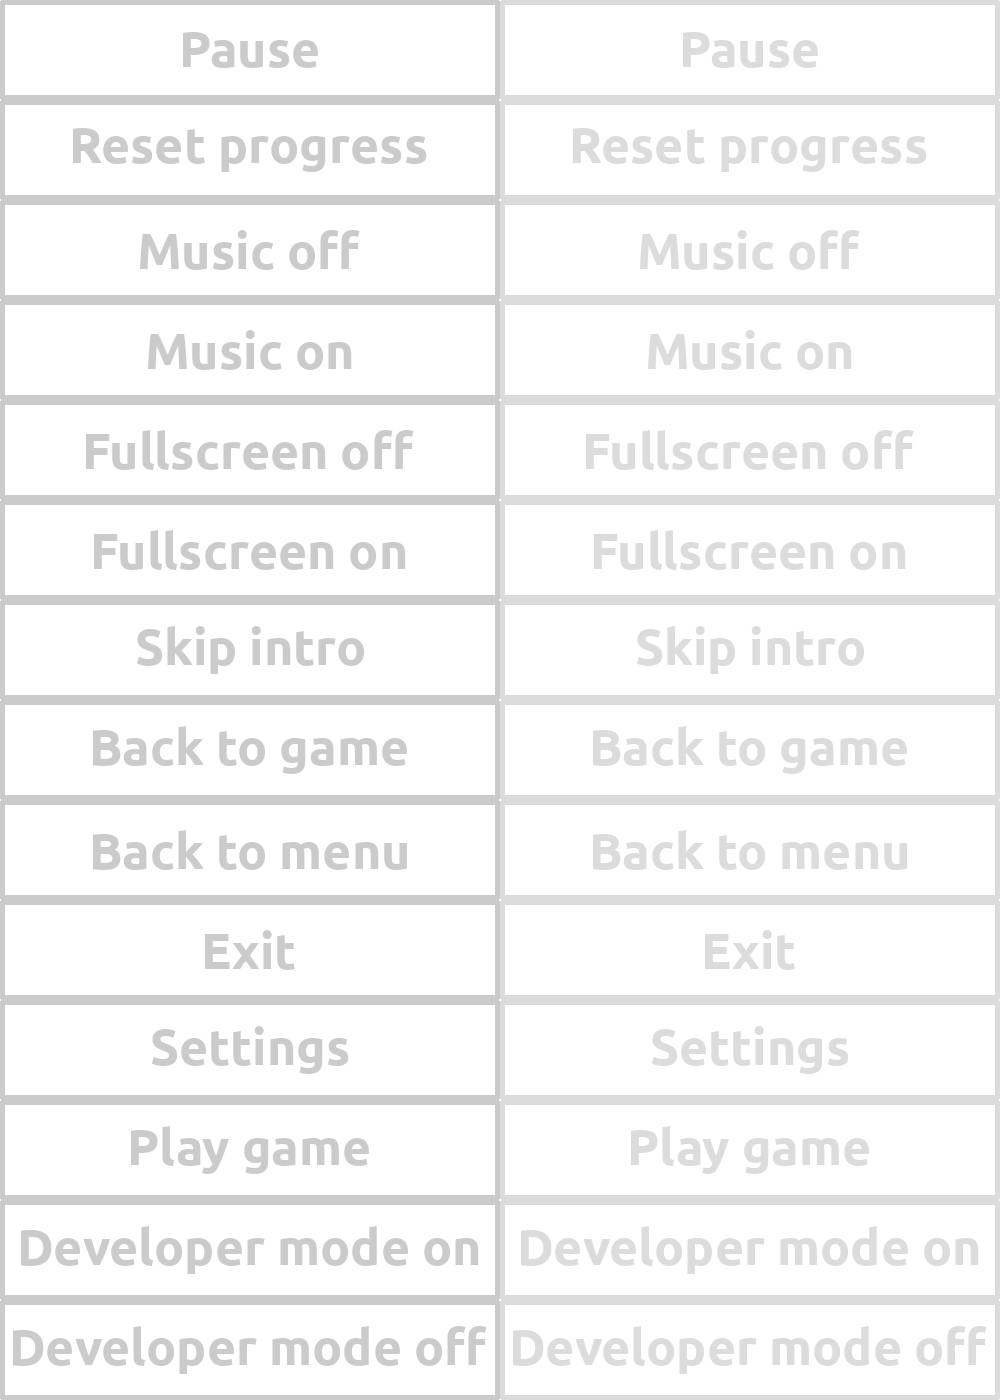
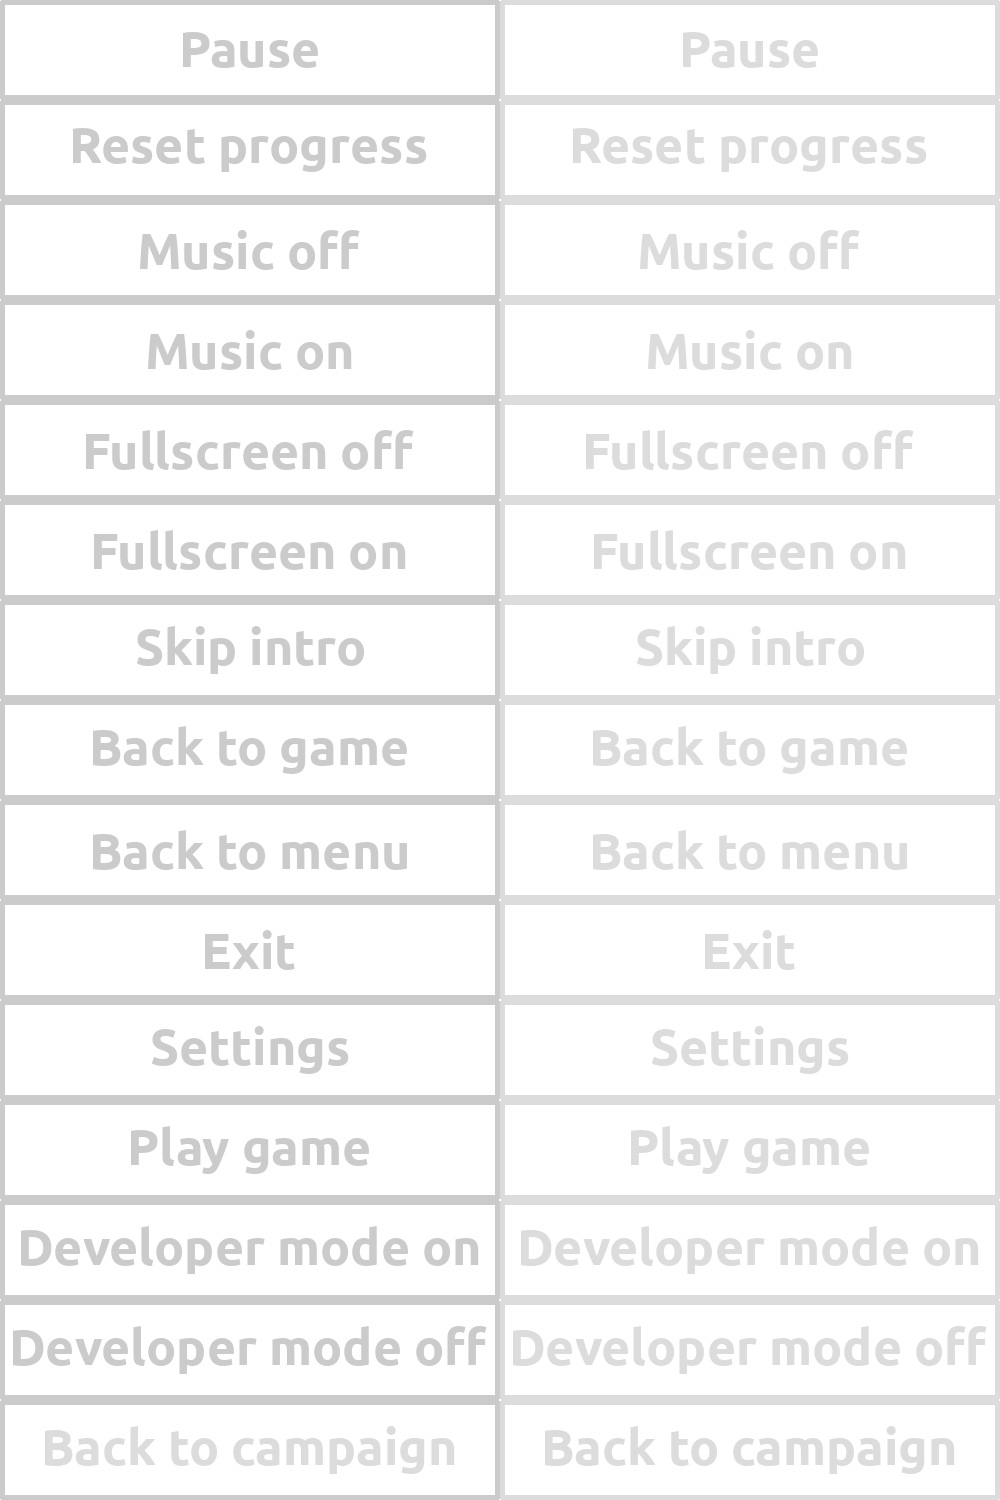
Moved all views to window class. Added campaign view.

Changed region(s): [[0.0, 0.0307, 1.0, 0.9829]]

diff --git a/src/campaign.py b/src/campaign.py
@@ -1,29 +1,55 @@
 """
-campaign.py
+intro.py
 
-Place for CampaignView class.
+Place for IntroView class.
 """
 
 import arcade
-from game import GameView
-from pause import PauseView
+import assets
+import data
+import pause
+from button import Button
+from developer import log
+
+# --- Constants ---
+param = data.load_parameters()
+
+# Size of the first level (intro plays only before first level)
+LEVEL_WIDTH = int(param['LEVEL']['DEFAULT_WIDTH'])
+LEVEL_HEIGHT = int(param['LEVEL']['DEFAULT_HEIGHT'])
 
 
 class CampaignView(arcade.View):
-    def on_show(self):
-        arcade.set_background_color(arcade.color.WHITE)
+    def __init__(self):
+        super().__init__()
+        if self.window.pause_view is None:
+            self.window.pause_view = pause.PauseView(self)
+
+        self.button_skip = Button(x=self.window.width / 6 * 5,
+                                  y=self.window.height * 1 / 8,
+                                  width=250, height=50,
+                                  texture_idle='skip_intro',
+                                  texture_hover='skip_intro_hover'
+                                  )
+
+    def on_update(self, delta_time: float):
+        self.button_skip.detect_mouse(self.window.cursor)
 
     def on_draw(self):
         self.window.developer_tool.on_draw_start()
         arcade.start_render()
-        arcade.draw_text("Campaign Screen", self.window.width/2, self.window.height/2,
-                         arcade.color.BLACK, font_size=50, anchor_x="center")
-        arcade.draw_text("Choose one from unlocked levels.", self.window.width / 2, self.window.height / 2 - 75,
-                         arcade.color.GRAY, font_size=20, anchor_x="center")
+        # In order to count FPS in proper way, add objects below:
+
+        # Draw the background texture
+        arcade.draw_lrwh_rectangle_textured(0, 0,
+                                            self.window.width, self.window.height,
+                                            assets.bg_menu)
+
+        arcade.draw_text("Intro Screen", self.window.width / 2, self.window.height / 2,
+                         arcade.color.WHITE, font_size=50, anchor_x="center")
+
+        self.button_skip.draw()
         self.window.developer_tool.on_draw_finish()
 
-    def on_key_press(self, key, modifiers):
-        """Called whenever a key is pressed. """
-        if key == arcade.key.ESCAPE:
-            pause_view = PauseView(self)
-            self.window.show_view(pause_view)
+    def on_mouse_press(self, _x, _y, _button, _modifiers):
+        pass

diff --git a/src/pause.py b/src/pause.py
@@ -9,7 +9,10 @@ Current state of the game is passed as argument to instance of PauseView object.
 import arcade
 import assets
 
+
 from button import Button
+from campaign import CampaignView
+from developer import log
 
 
 class PauseView(arcade.View):
@@ -20,12 +23,16 @@ class PauseView(arcade.View):
         self.button_back_game = Button(x=self.window.width / 6 * 4, y=self.window.height * 5 / 6,
                                        width=500, height=100,
                                        texture_idle='back_game', texture_hover='back_game_hover')
+        self.button_back_camp = Button(x=self.window.width / 2, y=self.window.height / 2,
+                                       width=500, height=100,
+                                       texture_idle='back_camp', texture_hover='back_camp_hover')
         self.button_back_menu = Button(x=self.window.width / 6 * 2, y=self.window.height * 1 / 6,
                                        width=500, height=100,
                                        texture_idle='back_menu', texture_hover='back_menu_hover')
 
     def on_update(self, delta_time: float):
         self.button_back_game.detect_mouse(self.window.cursor)
+        self.button_back_camp.detect_mouse(self.window.cursor)
         self.button_back_menu.detect_mouse(self.window.cursor)
 
     def on_draw(self):
@@ -37,6 +44,7 @@ class PauseView(arcade.View):
                                             self.window.width, self.window.height,
                                             assets.bg_menu)
         self.button_back_game.draw()
+        self.button_back_camp.draw()
         self.button_back_menu.draw()
 
         self.window.developer_tool.on_draw_finish()
@@ -44,5 +52,12 @@ class PauseView(arcade.View):
     def on_mouse_press(self, _x, _y, _button, _modifiers):
         if self.button_back_game.current_state == 'hover':
             self.window.show_view(self.game_view)
+            log('Scene switched to ' + str(self.game_view))
+        if self.button_back_camp.current_state == 'hover':
+            self.window.campaign_view = CampaignView()
+            self.window.scenes.append(self.window.campaign_view)
+            log('Scene switched to ' + str(self.window.campaign_view))
+            self.window.show_view(self.window.campaign_view)
         if self.button_back_menu.current_state == 'hover':
             self.window.show_view(self.window.start_view)
+            log('Scene switched to ' + str(self.window.start_view))

diff --git a/src/run_game.py b/src/run_game.py
@@ -40,6 +40,8 @@ class GlobalWindow(arcade.Window):
         self.cursor = Cursor()
         # Start view
         self.start_view = MenuView()
+        self.active_view = 0
+        self.scenes = [self.start_view]
 
     def on_resize(self, width, height):
         """ This method is automatically called when the window is resized. """
@@ -71,9 +73,22 @@ class GlobalWindow(arcade.Window):
             self.developer_mode = not self.developer_mode
             log('Developer mode turned to ' + str(not self.developer_mode))
         # F2 - fullscreen mode
-        if key == arcade.key.F2 and self.developer_mode:
+        elif key == arcade.key.F2 and self.developer_mode:
             self.set_fullscreen(not self.fullscreen)
+            self.set_viewport(0, self.width, 0, self.height)
             log('Fullscreen mode turned to ' + str(not self.fullscreen))
+        # F3 - turn music on/off
+        elif key == arcade.key.F3 and self.developer_mode:
+            self.music_enabled = not self.music_enabled
+            log('Music turned ' + str(not self.music_enabled))
+        # F4 - switch to all registered views player was before:
+        elif key == arcade.key.F4 and self.developer_mode:
+            if self.active_view < len(self.scenes)-1:
+                self.active_view = self.active_view + 1
+            else:
+                self.active_view = 0
+            log('View switched to ' + str(self.scenes[self.active_view]))
+            self.show_view(self.scenes[self.active_view])
 
 
 def main():

diff --git a/src/game.py b/src/game.py
@@ -10,6 +10,7 @@ import pymunk
 from arcade.gl import geometry
 import random
 # --- Import internal classes ---
+from developer import log
 import data
 import minimap
 from pause import PauseView
@@ -43,7 +44,9 @@ class GameView(arcade.View):
         # Set up level
         self.level_width = level_width
         self.level_height = level_height
-        
+        # It has to be here in order to create pause view ASAP:
+        self.window.pause_view = PauseView(self)
+
         # pymunk
         self.space = pymunk.Space()
         self.space.iterations = 35
@@ -209,11 +212,11 @@ class GameView(arcade.View):
 
     def on_key_press(self, key, modifiers):
         """Called whenever a key is pressed. """
-
         if key == arcade.key.ESCAPE:
             self.reset_viewport()
-            pause_view = PauseView(self)
-            self.window.show_view(pause_view)
+            log('Scene switched to ' + str(self.window.pause_view))
+            self.window.scenes.append(self.window.pause_view)
+            self.window.show_view(self.window.pause_view)
         elif key == arcade.key.UP:
             self.up_pressed = True
         elif key == arcade.key.DOWN:

diff --git a/src/assets.py b/src/assets.py
@@ -51,6 +51,8 @@ button_dev_on_idle = SimpleButton(button_col=0, button_row=12)
 button_dev_on_hover = SimpleButton(button_col=1, button_row=12)
 button_dev_off_idle = SimpleButton(button_col=0, button_row=13)
 button_dev_off_hover = SimpleButton(button_col=1, button_row=13)
+button_back_camp_idle = SimpleButton(button_col=0, button_row=14)
+button_back_camp_hover = SimpleButton(button_col=1, button_row=14)
 
 button_textures = {"pause": button_pause_idle,
                    "pause_hover": button_pause_hover,
@@ -79,7 +81,9 @@ button_textures = {"pause": button_pause_idle,
                    "dev_on": button_dev_on_idle,
                    "dev_on_hover": button_dev_on_hover,
                    "dev_off": button_dev_off_idle,
-                   "dev_off_hover": button_dev_off_hover
+                   "dev_off_hover": button_dev_off_hover,
+                   "back_camp": button_back_camp_idle,
+                   "back_camp_hover": button_back_camp_hover
                    }
 
 # Cursor

diff --git a/src/menu.py b/src/menu.py
@@ -56,10 +56,12 @@ class MenuView(arcade.View):
 
     def on_mouse_press(self, _x, _y, _button, _modifiers):
         if self.button_play.current_state == 'hover':
-            intro_view = IntroView()
-            self.window.show_view(intro_view)
+            self.window.intro_view = IntroView()
+            self.window.scenes.append(self.window.intro_view)
+            self.window.show_view(self.window.intro_view)
         elif self.button_settings.current_state == 'hover':
-            settings_view = SettingsView(self)
-            self.window.show_view(settings_view)
+            self.window.settings_view = SettingsView(self)
+            self.window.scenes.append(self.window.settings_view)
+            self.window.show_view(self.window.settings_view)
         elif self.button_exit.current_state == 'hover':
             self.window.close()

diff --git a/src/intro.py b/src/intro.py
@@ -9,6 +9,7 @@ import assets
 import data
 from game import GameView
 from button import Button
+from developer import log
 
 # --- Constants ---
 param = data.load_parameters()
@@ -49,5 +50,7 @@ class IntroView(arcade.View):
 
     def on_mouse_press(self, _x, _y, _button, _modifiers):
         if self.button_skip.current_state == 'hover':
-            game_view = GameView(LEVEL_WIDTH, LEVEL_HEIGHT)
-            self.window.show_view(game_view)
+            self.window.game_view = GameView(LEVEL_WIDTH, LEVEL_HEIGHT)
+            self.window.scenes.append(self.window.game_view)
+            log('View switched to ' + str(self.window.game_view))
+            self.window.show_view(self.window.game_view)
